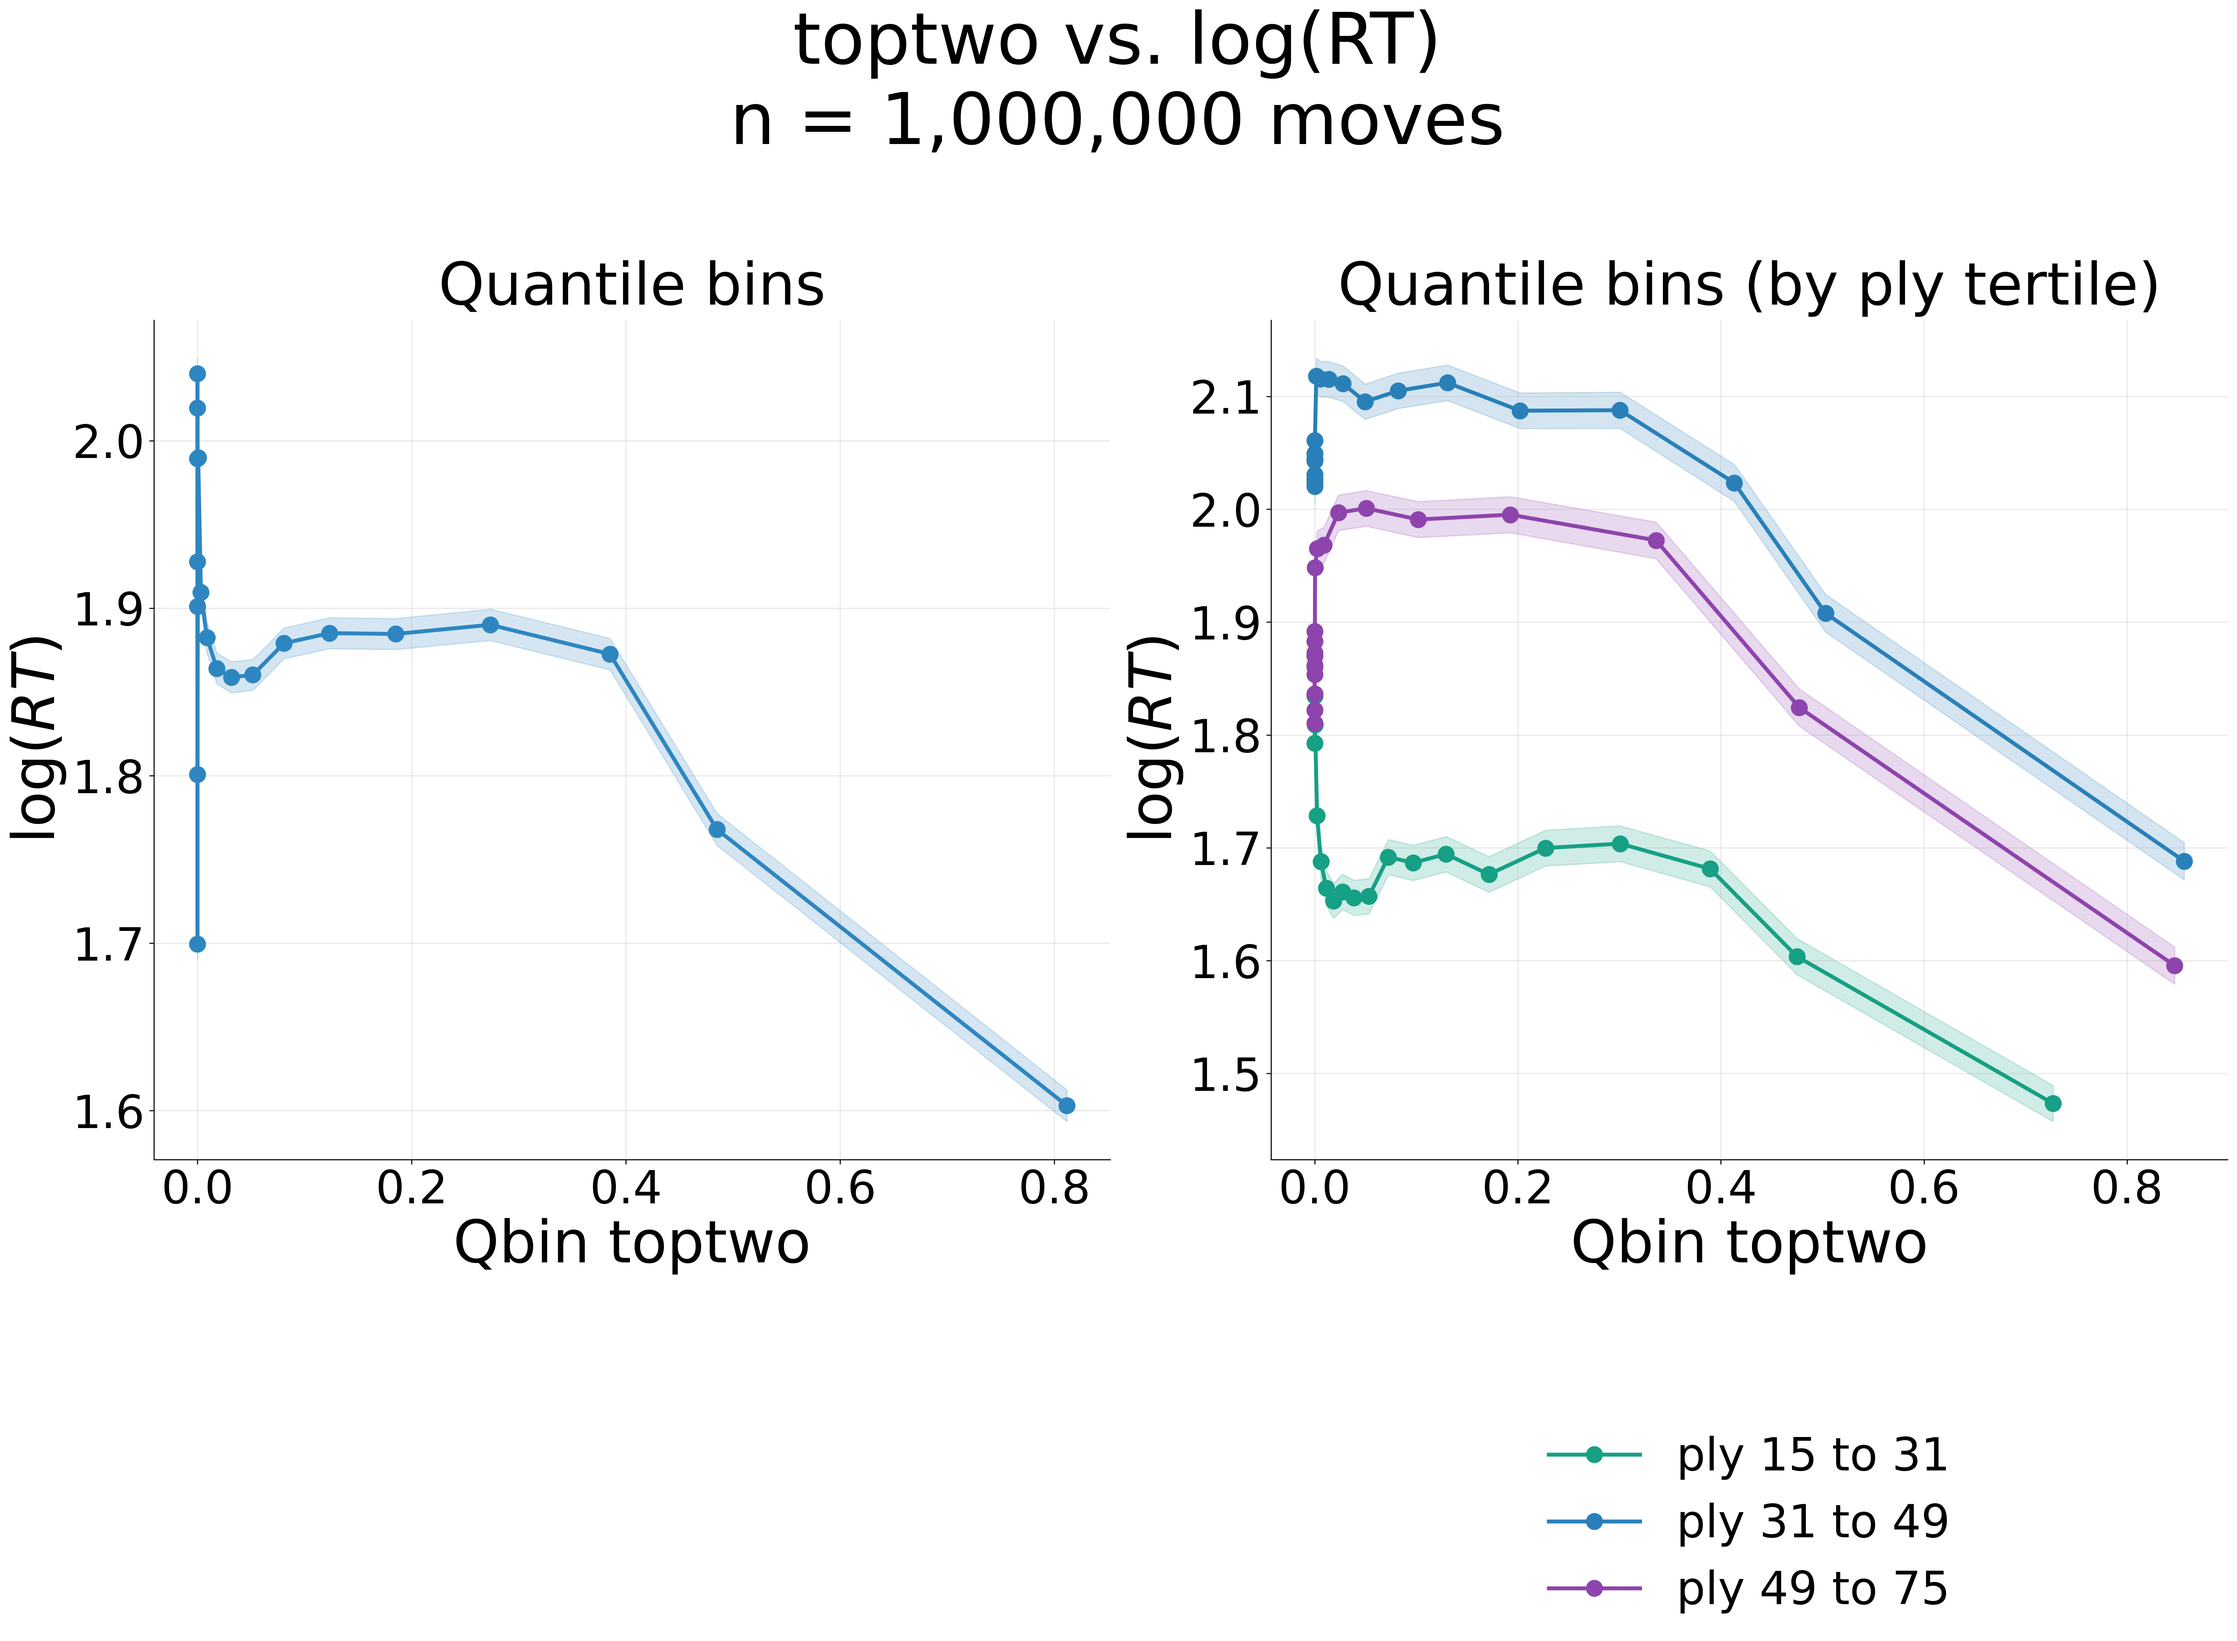
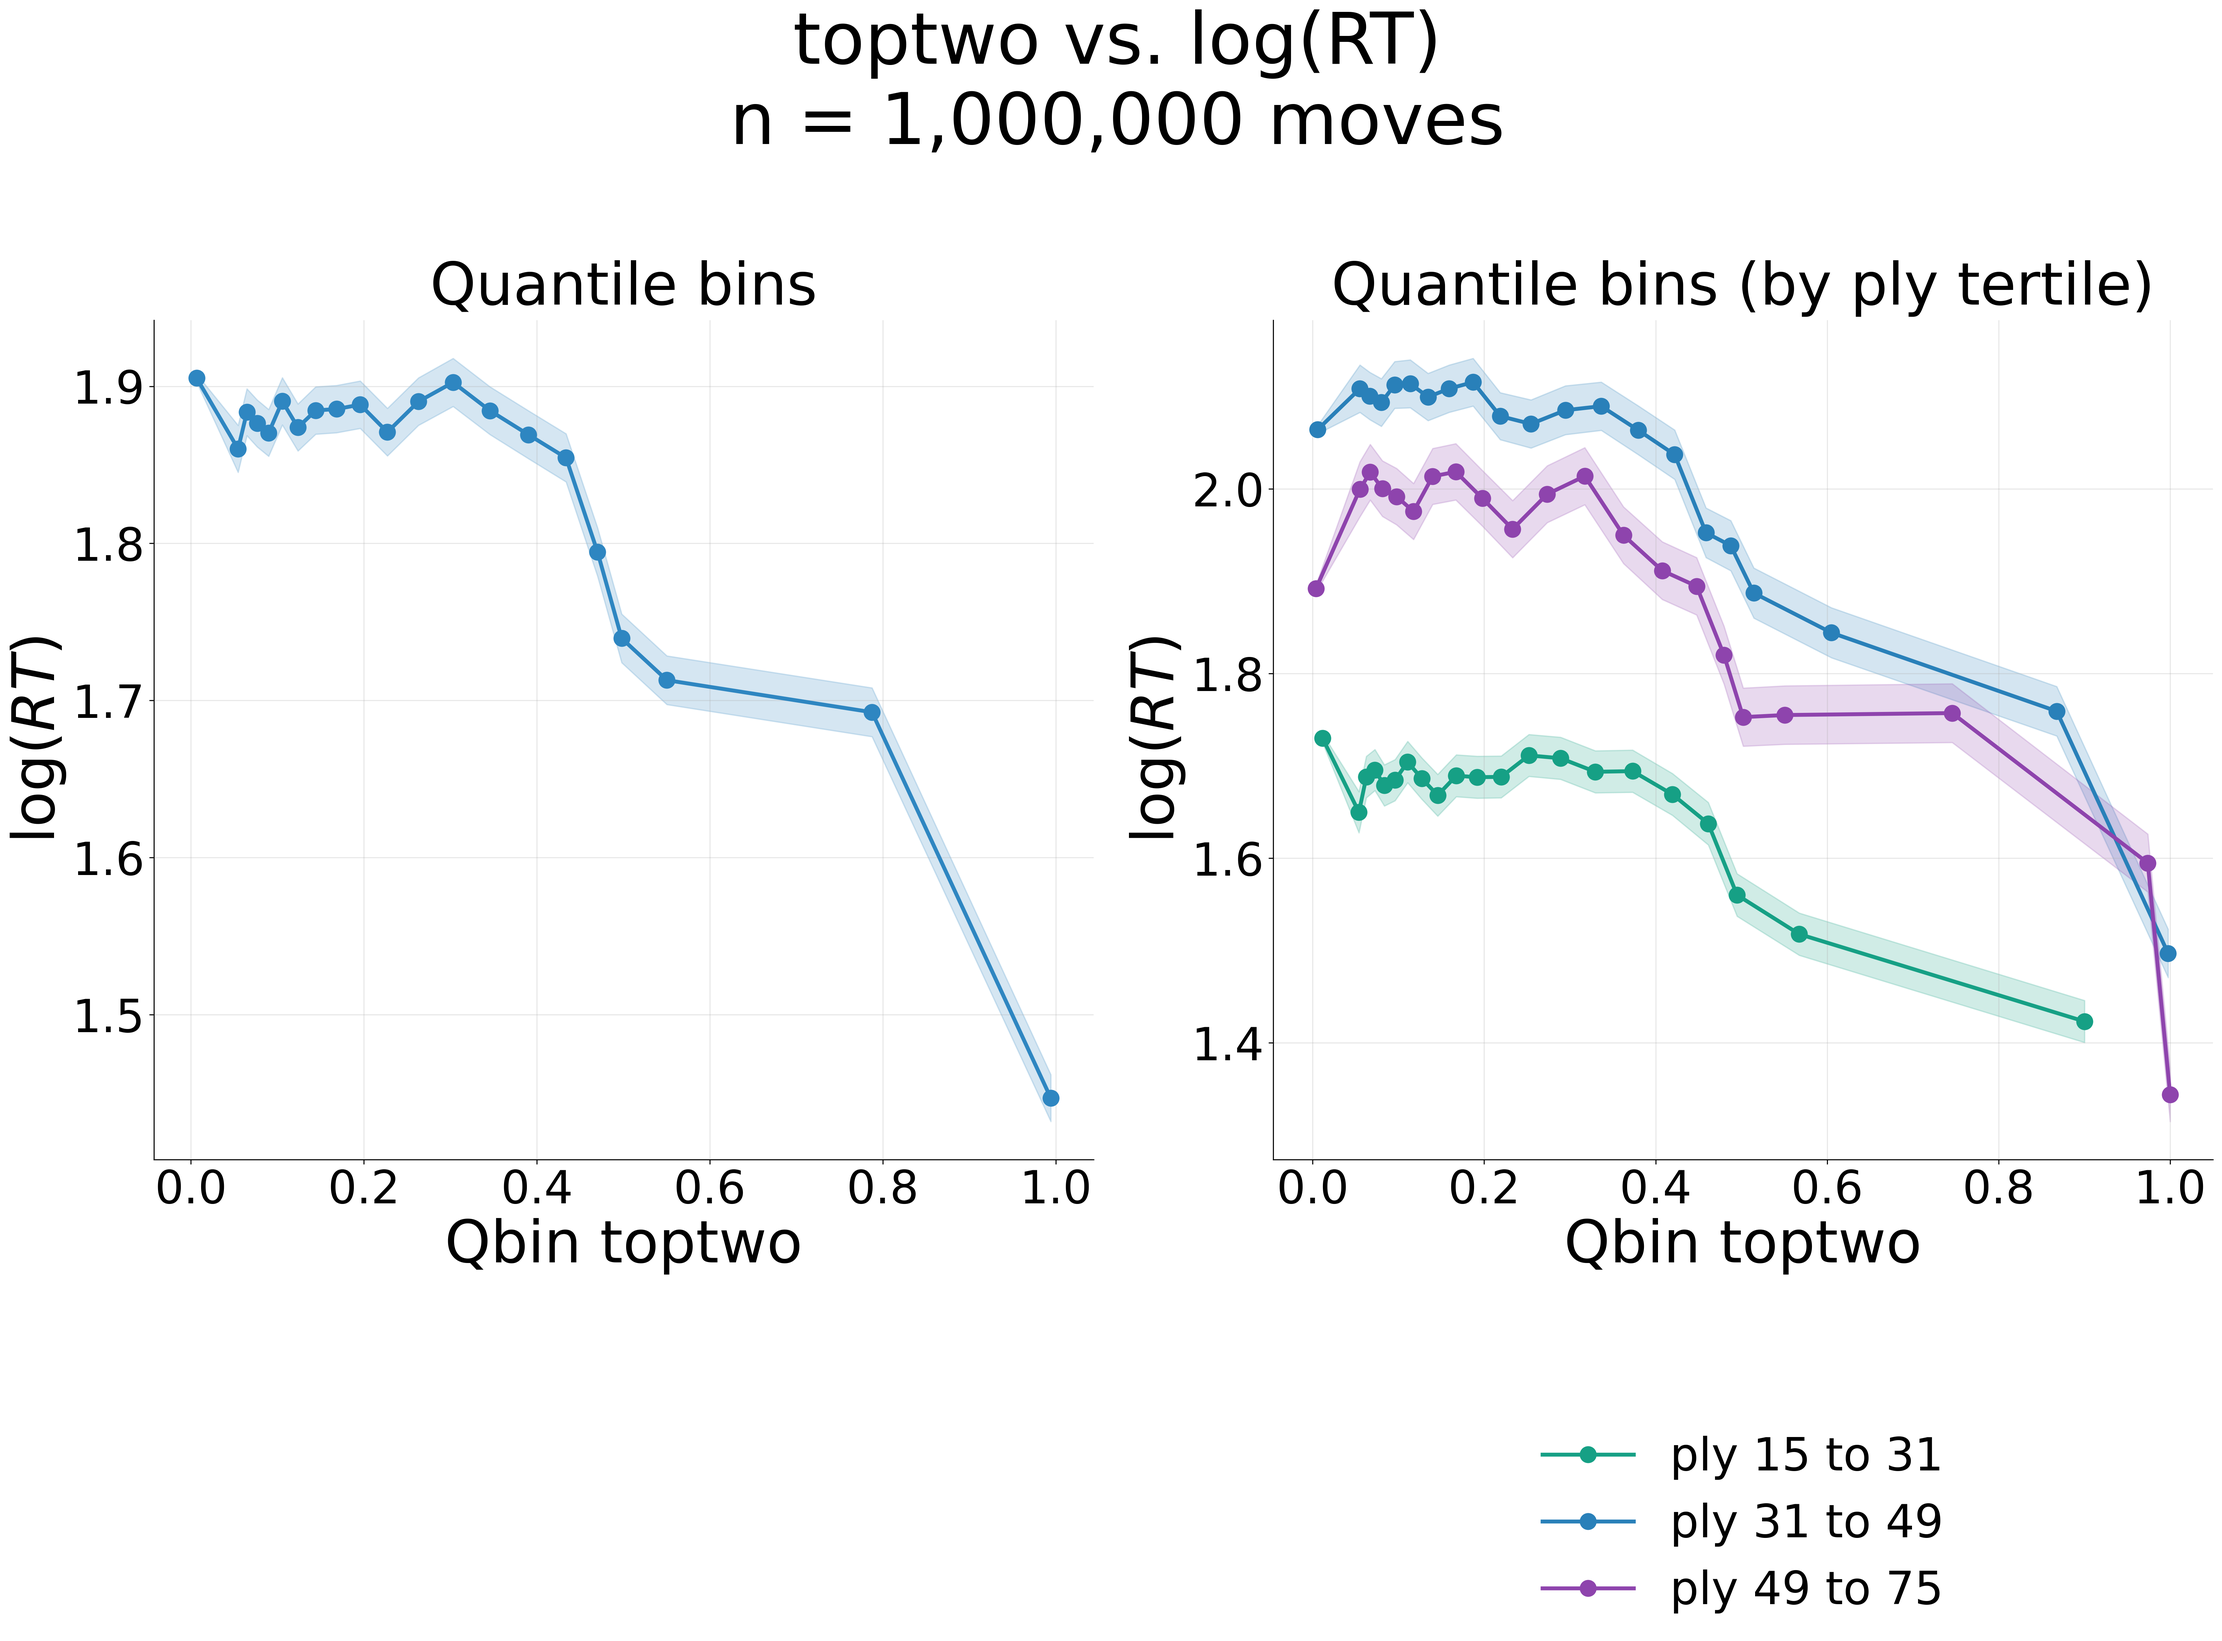
human_analytics: near-zero lump threshold for VOC/toptwo binning
Generalized Analyzer zero-inflation to a `zero_threshold`: lump abs(x) <=
threshold into the single leftmost point and quantile-bin the rest (default 0
= exact zeros). Set 0.05 for VOC and toptwo. Regenerated both dashboards —
VOC shows a clean positive RT trend, toptwo a clean negative one.

diff --git a/human_analytics/utils/analysis.py b/human_analytics/utils/analysis.py
@@ -87,6 +87,7 @@ class Analyzer:
         quantile_heatmap_row: str | None = None,
         quantile_heatmap_row_label: str | None = None,
         zero_inflated: bool = False,
+        zero_threshold: float = 0.0,
     ):
         self.conn = db_conn
         self.table = table_name
@@ -95,11 +96,13 @@ class Analyzer:
         self.n_bins = n_bins
         self.filter_query = filter_query
         self.title = title or f"{self.x.label} vs {self.y.label}"
-        # When the x distribution has a large point mass at 0 (e.g. VOC: ~⅔ of
-        # moves are exactly 0), plain ``ntile`` wastes most bins on that mass.
-        # ``zero_inflated`` instead renders x==0 as a single leftmost point and
-        # quantile-bins only the nonzero rows.
+        # When the x distribution has a large mass near 0 (e.g. VOC: ~⅔ of moves
+        # are 0), plain ``ntile`` wastes most bins on that mass. ``zero_inflated``
+        # instead lumps the near-zero rows (``abs(x) <= zero_threshold``) into a
+        # single leftmost point and quantile-bins only the remaining rows.
+        # ``zero_threshold=0`` lumps exactly-zero rows.
         self.zero_inflated = zero_inflated
+        self.zero_threshold = float(zero_threshold)
 
         self.quantile_heatmap_row = None
         self._quantile_heatmap_row_label = ""
@@ -161,14 +164,15 @@ class Analyzer:
         # the x==0 point mass collapses to a single leftmost bin and only the
         # nonzero rows are ntiled (avoids wasting bins on the zero mass).
         col = self.x.column
+        thr = self.zero_threshold
         if self.zero_inflated:
             global_inner = f"""
                 SELECT {col}, _y_transformed, 0 AS qbin
-                FROM _analyzer_view WHERE {col} = 0
+                FROM _analyzer_view WHERE abs({col}) <= {thr}
                 UNION ALL
                 SELECT {col}, _y_transformed,
                        ntile({self.n_bins}) OVER (ORDER BY {col}) AS qbin
-                FROM _analyzer_view WHERE {col} <> 0
+                FROM _analyzer_view WHERE abs({col}) > {thr}
             """
         else:
             global_inner = f"SELECT *, ntile({self.n_bins}) OVER (ORDER BY {col}) AS qbin FROM _analyzer_view"
@@ -185,11 +189,11 @@ class Analyzer:
         if self.zero_inflated:
             tertile_inner = f"""
                 SELECT ply_tertiles as tertile_id, {col}, _y_transformed, 0 AS qbin
-                FROM _analyzer_view WHERE {col} = 0
+                FROM _analyzer_view WHERE abs({col}) <= {thr}
                 UNION ALL
                 SELECT ply_tertiles as tertile_id, {col}, _y_transformed,
                        ntile({self.n_bins}) OVER (PARTITION BY ply_tertiles ORDER BY {col}) AS qbin
-                FROM _analyzer_view WHERE {col} <> 0
+                FROM _analyzer_view WHERE abs({col}) > {thr}
             """
         else:
             tertile_inner = f"""

diff --git a/human_analytics/voc_mq_analysis.py b/human_analytics/voc_mq_analysis.py
@@ -118,7 +118,8 @@ def plot_voc_vs_movetime(conn: duckdb.DuckDBPyConnection, output_path: str) -> N
         y_var=Variable(column="move_time", is_log=True, name="RT"),
         filter_query="move_time > 0",
         title="VOC vs. log(RT)",
-        zero_inflated=True,  # ~⅔ of moves have VOC==0; show it as one point, bin the rest
+        zero_inflated=True,  # lump VOC < 0.05 as one point, quantile-bin the rest
+        zero_threshold=0.05,
     )
     analyzer.save_dashboard(output_path)
 
@@ -175,6 +176,8 @@ def plot_toptwo_vs_movetime(conn: duckdb.DuckDBPyConnection, output_path: str) -
         y_var=Variable(column="move_time", is_log=True, name="RT"),
         filter_query="move_time > 0",
         title="toptwo vs. log(RT)",
+        zero_inflated=True,  # lump toptwo < 0.05 as one point, quantile-bin the rest
+        zero_threshold=0.05,
     )
     analyzer.save_dashboard(output_path)
 
